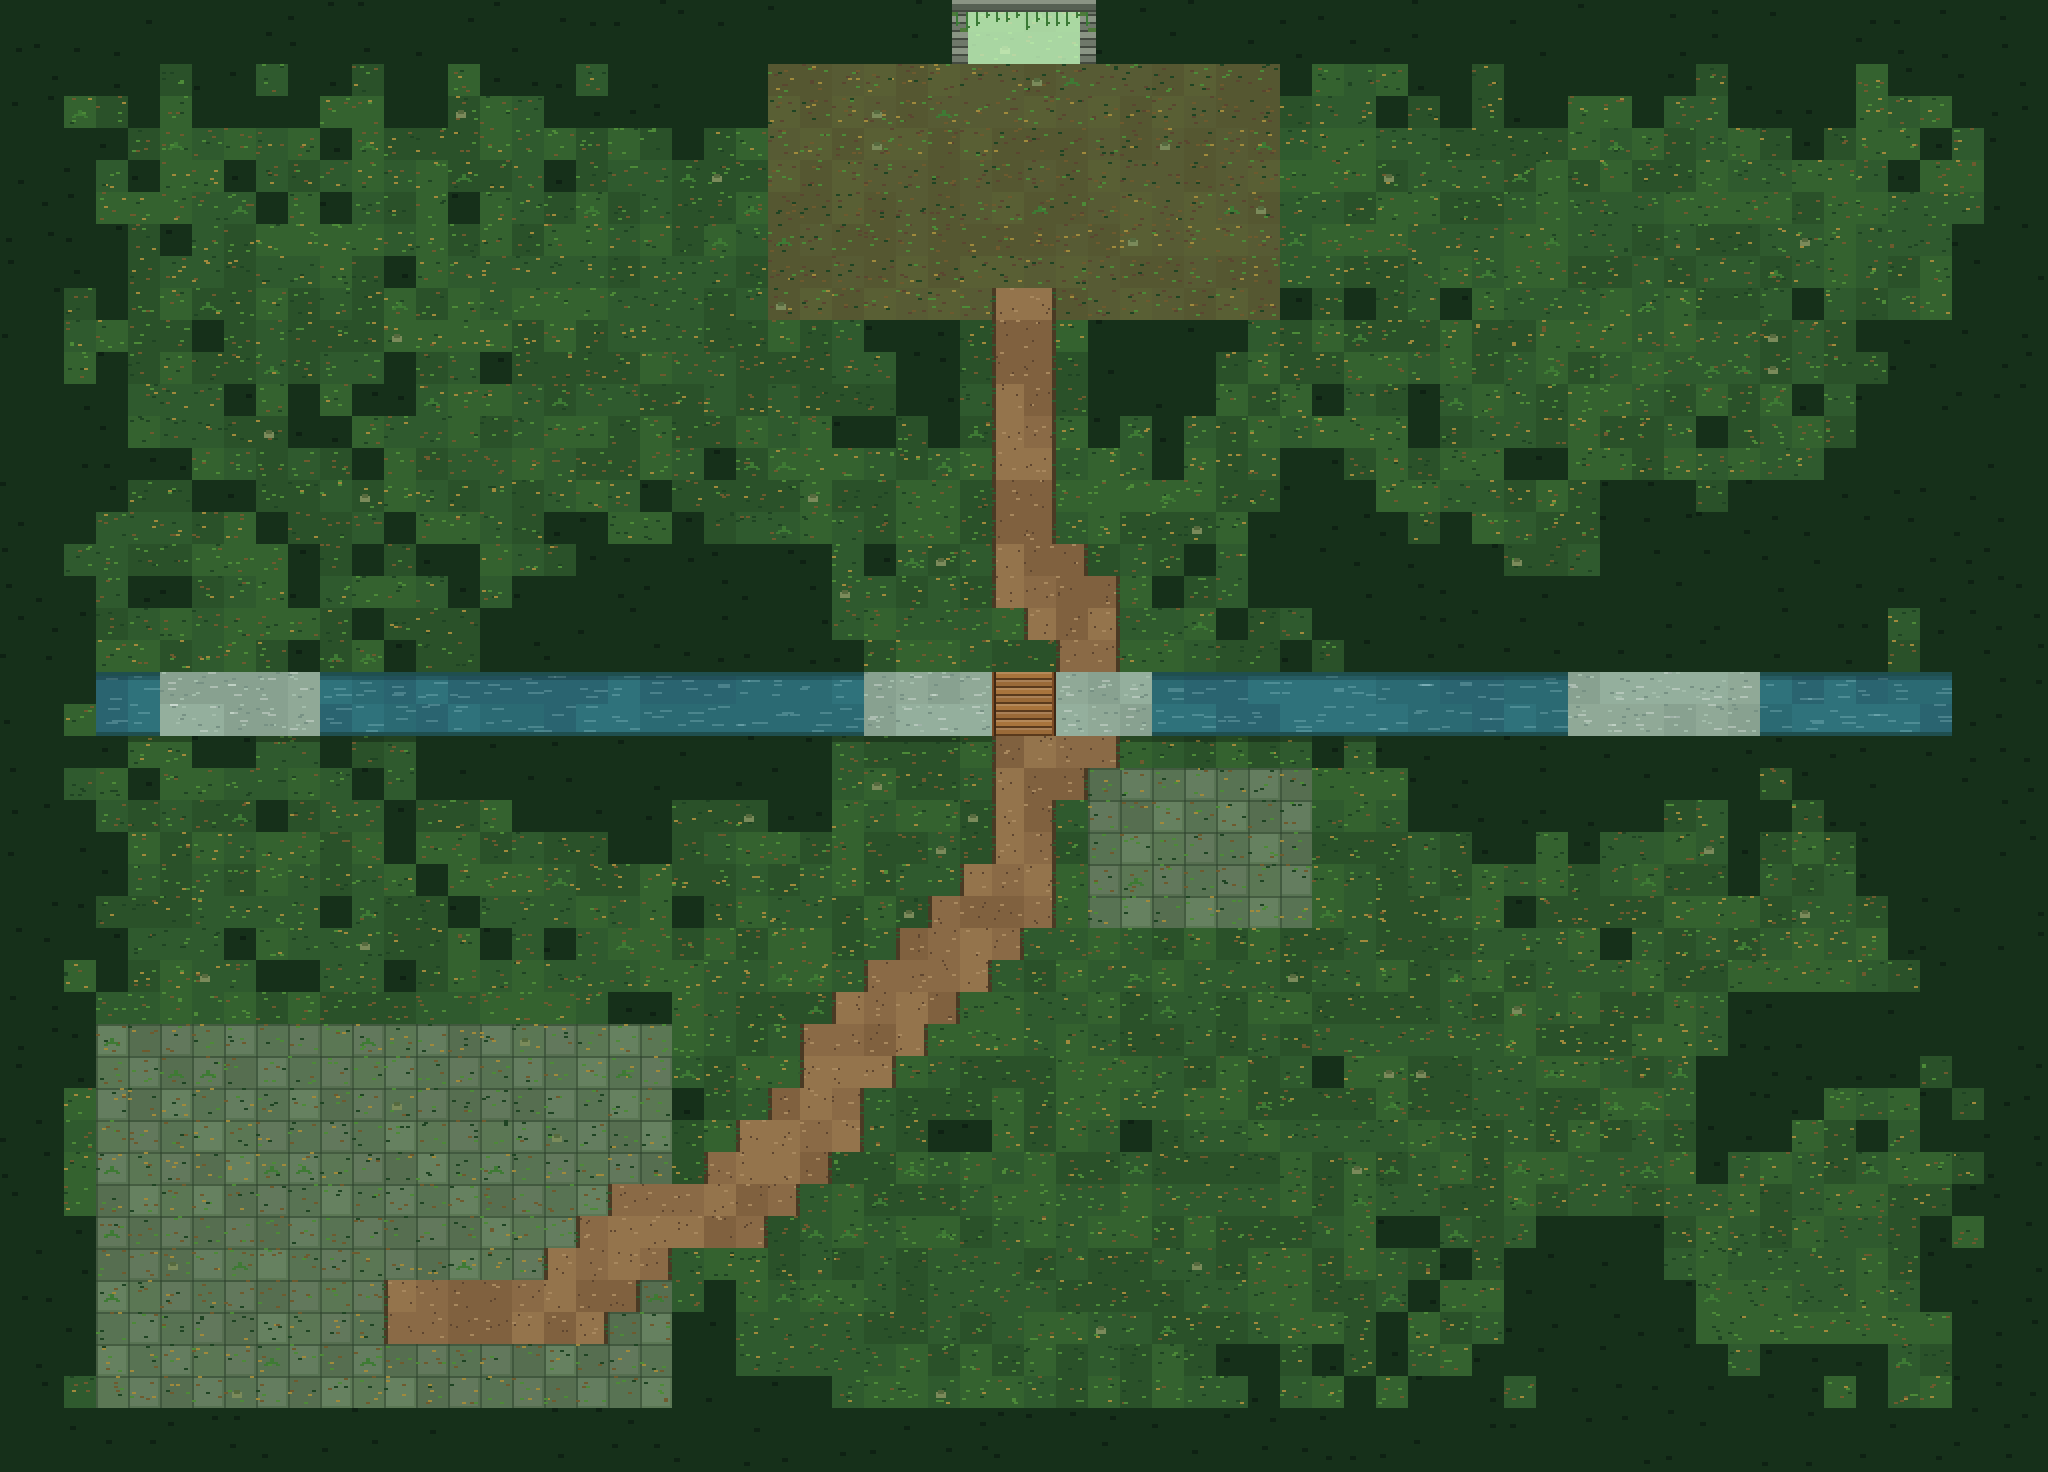
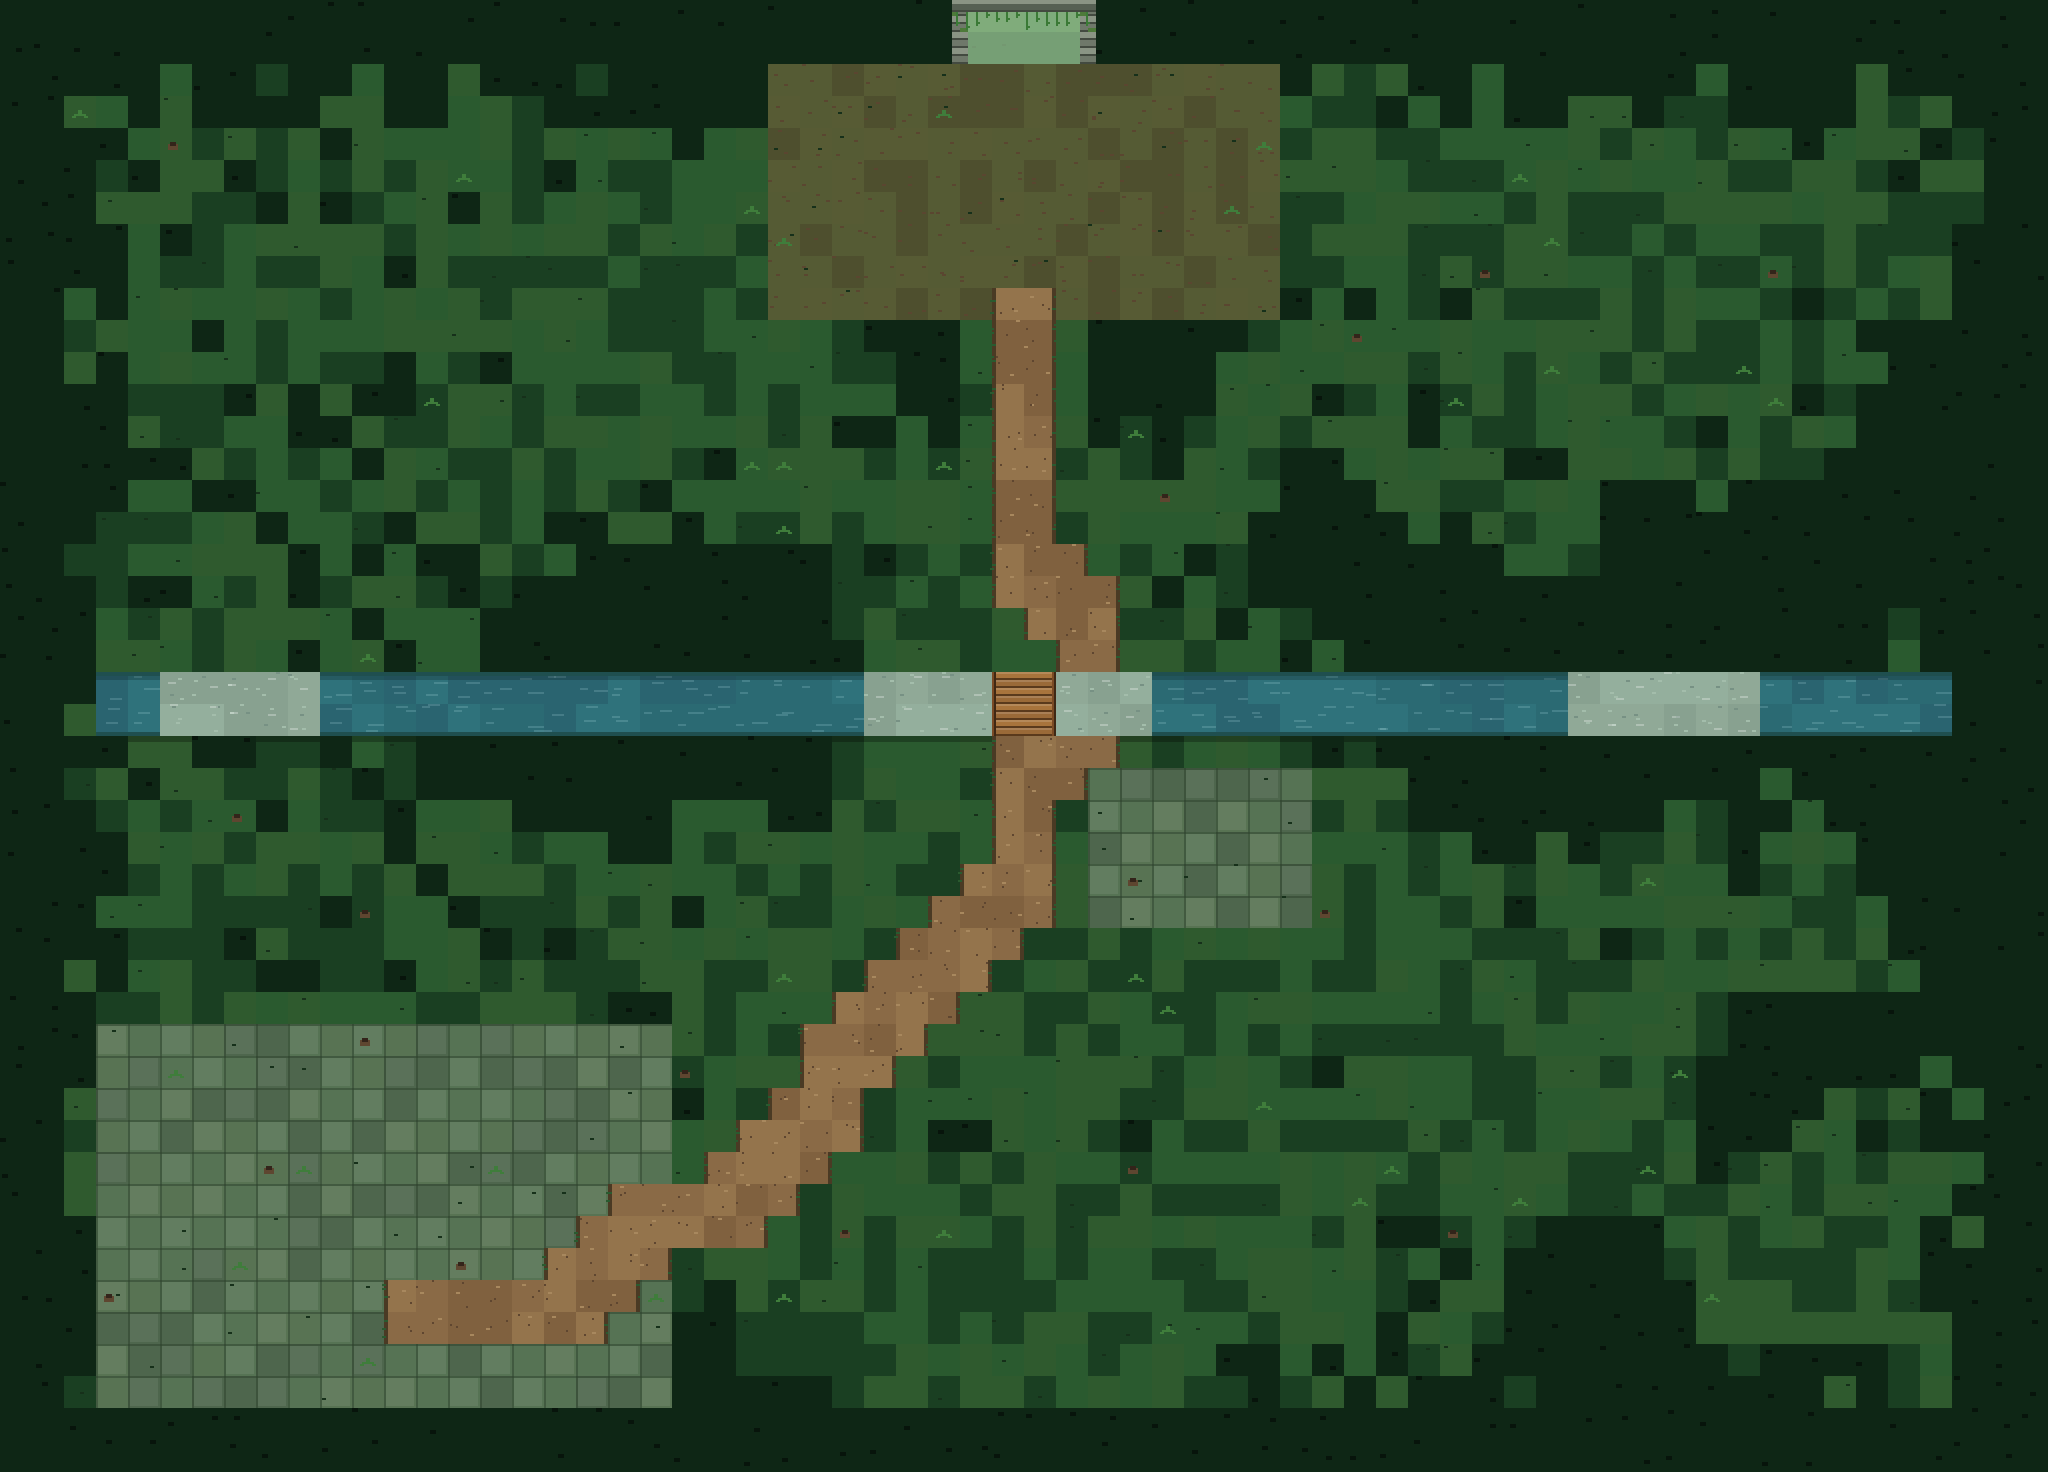
ป่าดงดิบ: พื้นคมขนาดจริงเข้าโทนต้นไม้ ลดจุดรก ไม่ยืดภาพเบลอ

diff --git a/public/pixeljungle.js b/public/pixeljungle.js
@@ -6,7 +6,7 @@ const PixelJungle = (() => {
   const mk = (w, h) => { const c = document.createElement('canvas'); c.width = w; c.height = h; const g = c.getContext('2d'); g.imageSmoothingEnabled = false; return [c, g]; };
   const cache = new Map(), memo = (k, f) => { let v = cache.get(k); if (!v) { v = f(); cache.set(k, v); } return v; };
   const px = (g, col, x, y, w = 1, h = 1) => { g.fillStyle = col; g.fillRect(x * U, y * U, w * U, h * U); }; // วาดเป็นหน่วย 2 พิกเซล
-  // พื้นทั้งใบจาก pack (โทนเดียวกับเมือง ขอบมน น่ากลัวนิดๆ) — โหลดแล้ว base() ใช้ภาพแทนการวาดโค้ด
+  // พื้นทั้งใบจาก pack (ถ้ามี) — รับเฉพาะขนาดตรงแมพ W*TS × H*TS (เช่น 2048×1472) กันขยายเบลอ • ไม่มีต้นไม้ในภาพ
   let bgImg = null, bgReady = false;
   const bgWaiters = [];
   function loadBg() {
@@ -14,15 +14,17 @@ const PixelJungle = (() => {
     im.decoding = 'async';
     im.onload = () => { if (!im.naturalWidth) return; bgImg = im; bgReady = true; bgWaiters.splice(0).forEach(fn => fn()); };
     im.onerror = () => { bgReady = false; };
-    im.src = 'pack/jungle-bg.jpg?v=jbg6'; // พื้นอย่างเดียว ไม่มีต้นไม้/วัตถุ/จุดเศษใบไม้ — ต้นไม้ยังเป็นสไปรต์ทับ + ชนตามช่อง
+    im.src = 'pack/jungle-bg.png?v=jbg7';
   }
   function whenBgReady(fn) { if (bgReady) fn(); else bgWaiters.push(fn); }
   function packBase(W, H) {
     if (!bgReady || !bgImg) return null;
-    const [oc, g] = mk(W * TS, H * TS);
+    const tw = W * TS, th = H * TS;
+    if (bgImg.naturalWidth !== tw || bgImg.naturalHeight !== th) return null; // ขนาดไม่ตรง = วาดโค้ดแทน ไม่ยืดภาพ
+    const [oc, g] = mk(tw, th);
     g.imageSmoothingEnabled = false;
-    g.drawImage(bgImg, 0, 0, oc.width, oc.height);
-    oc.packBg = true; // พื้นจาก pack • ต้นไม้/วัตถุยังวาดสไปรต์ทับตามผัง (ชนตามช่อง)
+    g.drawImage(bgImg, 0, 0);
+    oc.packBg = true;
     return oc;
   }
   loadBg();
@@ -72,45 +74,42 @@ const PixelJungle = (() => {
     g.imageSmoothingEnabled = false; g.drawImage(spr, Math.round(tx * TS + TS / 2 - spr.width / 2), (ty + 1) * TS + 2 - spr.height);
   }
 
-  // ---------- พื้น ----------
-  const FLOOR = ['#2f5a2e', '#2a5129', '#34622f'], FDARK = '#16301a', DIRT = ['#8a6a46', '#80613f', '#94744c'], WATER = ['#2b6a73', '#2a6470', '#2f727b'], SHALLOW = ['#a89a74', '#9a8c68', '#b0a47e'];
-  function base(rows, W, H, J) {
-    const packed = packBase(W, H); if (packed) return packed;
+  // ---------- พื้น (โทนเดียวกับสไปรต์ต้นไม้ CANOPY — เขียวเข้มใต้พุ่ม ไม่จุดเศษใบไม้รก) ----------
+  const FLOOR = ['#1a3f22', '#2a5a2f', '#2f5a2e'], FDARK = '#0e2615', DIRT = ['#8a6a46', '#80613f', '#94744c'], WATER = ['#2b6a73', '#2a6470', '#2f727b'], SHALLOW = ['#a89a74', '#9a8c68', '#b0a47e'];
+  function paintBase(rows, W, H, J) { // วาดพื้นโค้ดอย่างเดียว (ใช้ทั้งเกมและตอนสร้าง pack คมที่ขนาดจริง)
     const [oc, g] = mk(W * TS, H * TS), at = (x, y) => (rows[y] && rows[y][x]) || '#', isW = ch => ch === '~' || ch === 'H', isTr = ch => ch === '#' || ch === 't';
     const zoneOf = (x, y) => { for (const s of J.safe) if (x >= s.x0 && x <= s.x1 && y >= s.y0 && y <= s.y1) return s.id; return ''; };
     for (let ty = 0; ty < H; ty++) for (let tx = 0; tx < W; tx++) {
       const ch = at(tx, ty), X = tx * TS, Y = ty * TS, h1 = hash(tx, ty, 1);
       if (ch === '~' || ch === 'H') { // ลำธาร
         g.fillStyle = WATER[(h1 * 3) | 0]; g.fillRect(X, Y, TS, TS);
-        for (let i = 0; i < 3; i++) { const a = hash(tx * 3 + i, ty, 2), b = hash(tx, ty * 3 + i, 3); g.fillStyle = 'rgba(190,235,240,.22)'; g.fillRect(X + ((a * 12) | 0) * 2, Y + ((b * 14) | 0) * 2, 8 + ((a * 3) | 0) * 4, 2); }
+        for (let i = 0; i < 2; i++) { const a = hash(tx * 3 + i, ty, 2), b = hash(tx, ty * 3 + i, 3); g.fillStyle = 'rgba(190,235,240,.18)'; g.fillRect(X + ((a * 12) | 0) * 2, Y + ((b * 14) | 0) * 2, 8 + ((a * 3) | 0) * 4, 2); }
         if (!isW(at(tx, ty - 1))) { g.fillStyle = '#1f4f4f'; g.fillRect(X, Y, TS, 4); g.fillStyle = 'rgba(0,0,0,.2)'; g.fillRect(X, Y + 4, TS, 4); } // ตลิ่งเงาริมน้ำ
         if (!isW(at(tx, ty + 1))) { g.fillStyle = '#1f4f4f'; g.fillRect(X, Y + TS - 4, TS, 4); }
       } else if (ch === 'F') { // ที่ข้ามตื้น: เห็นพื้นกรวด น้ำใสบางๆ ทับ
         g.fillStyle = SHALLOW[(h1 * 3) | 0]; g.fillRect(X, Y, TS, TS);
-        for (let i = 0; i < 6; i++) { const a = hash(tx * 5 + i, ty, 4), b = hash(tx, ty * 5 + i, 5); g.fillStyle = i & 1 ? '#7d7152' : '#c9bd96'; g.fillRect(X + ((a * 14) | 0) * 2, Y + ((b * 14) | 0) * 2, 4, 2); }
+        for (let i = 0; i < 3; i++) { const a = hash(tx * 5 + i, ty, 4), b = hash(tx, ty * 5 + i, 5); g.fillStyle = i & 1 ? '#7d7152' : '#c9bd96'; g.fillRect(X + ((a * 14) | 0) * 2, Y + ((b * 14) | 0) * 2, 4, 2); }
         g.fillStyle = 'rgba(110,190,200,.42)'; g.fillRect(X, Y, TS, TS);
-        for (let i = 0; i < 2; i++) { const a = hash(tx * 3 + i, ty, 6), b = hash(tx, ty * 3 + i, 7); g.fillStyle = 'rgba(255,255,255,.3)'; g.fillRect(X + ((a * 10) | 0) * 2, Y + ((b * 14) | 0) * 2, 8, 2); }
+        for (let i = 0; i < 1; i++) { const a = hash(tx * 3 + i, ty, 6), b = hash(tx, ty * 3 + i, 7); g.fillStyle = 'rgba(255,255,255,.28)'; g.fillRect(X + ((a * 10) | 0) * 2, Y + ((b * 14) | 0) * 2, 8, 2); }
         if (at(tx, ty - 1) === '~') { g.fillStyle = 'rgba(30,90,100,.35)'; g.fillRect(X, Y, TS, 6); } if (at(tx, ty + 1) === '~') { g.fillStyle = 'rgba(30,90,100,.35)'; g.fillRect(X, Y + TS - 6, TS, 6); }
       } else if (ch === '=') { // ทางดิน
         g.fillStyle = DIRT[(h1 * 3) | 0]; g.fillRect(X, Y, TS, TS);
-        for (let i = 0; i < 5; i++) { const a = hash(tx * 5 + i, ty, 8), b = hash(tx, ty * 5 + i, 9); g.fillStyle = i & 1 ? '#a8885e' : '#5f4630'; g.fillRect(X + ((a * 14) | 0) * 2, Y + ((b * 14) | 0) * 2, 2 + (i & 1) * 2, 2); }
-        if (at(tx - 1, ty) !== '=' && at(tx - 1, ty) !== 'H') { g.fillStyle = '#4a3a24'; g.fillRect(X, Y, 4, TS); g.fillStyle = '#2f5a2e'; for (let i = 0; i < 4; i++) g.fillRect(X - 2 + (i & 1) * 2, Y + 4 + ((hash(tx, ty + i, 10) * 6) | 0) * 4, 4, 2); }
-        if (at(tx + 1, ty) !== '=' && at(tx + 1, ty) !== 'H') { g.fillStyle = '#4a3a24'; g.fillRect(X + TS - 4, Y, 4, TS); g.fillStyle = '#2f5a2e'; for (let i = 0; i < 4; i++) g.fillRect(X + TS - 2 - (i & 1) * 2, Y + 4 + ((hash(tx, ty + i, 11) * 6) | 0) * 4, 4, 2); }
+        for (let i = 0; i < 3; i++) { const a = hash(tx * 5 + i, ty, 8), b = hash(tx, ty * 5 + i, 9); g.fillStyle = i & 1 ? '#a8885e' : '#5f4630'; g.fillRect(X + ((a * 14) | 0) * 2, Y + ((b * 14) | 0) * 2, 2 + (i & 1) * 2, 2); }
+        if (at(tx - 1, ty) !== '=' && at(tx - 1, ty) !== 'H') { g.fillStyle = '#4a3a24'; g.fillRect(X, Y, 4, TS); g.fillStyle = '#2a5a2f'; for (let i = 0; i < 3; i++) g.fillRect(X - 2 + (i & 1) * 2, Y + 4 + ((hash(tx, ty + i, 10) * 6) | 0) * 4, 4, 2); }
+        if (at(tx + 1, ty) !== '=' && at(tx + 1, ty) !== 'H') { g.fillStyle = '#4a3a24'; g.fillRect(X + TS - 4, Y, 4, TS); g.fillStyle = '#2a5a2f'; for (let i = 0; i < 3; i++) g.fillRect(X + TS - 2 - (i & 1) * 2, Y + 4 + ((hash(tx, ty + i, 11) * 6) | 0) * 4, 4, 2); }
       } else {
         const zone = ch === 'E' ? '' : zoneOf(tx, ty), tr = isTr(ch);
         g.fillStyle = tr ? FDARK : FLOOR[(h1 * 3) | 0]; g.fillRect(X, Y, TS, TS);
-        if (zone === 'camp') { g.fillStyle = 'rgba(120,92,56,.55)'; g.fillRect(X, Y, TS, TS); for (let i = 0; i < 3; i++) { g.fillStyle = '#5a4630'; g.fillRect(X + ((hash(tx * 3 + i, ty, 12) * 14) | 0) * 2, Y + ((hash(tx, ty * 3 + i, 13) * 14) | 0) * 2, 4, 2); } } // ลานค่าย = ดินอัดแน่น
+        if (zone === 'camp') { g.fillStyle = 'rgba(120,92,56,.55)'; g.fillRect(X, Y, TS, TS); for (let i = 0; i < 2; i++) { g.fillStyle = '#5a4630'; g.fillRect(X + ((hash(tx * 3 + i, ty, 12) * 14) | 0) * 2, Y + ((hash(tx, ty * 3 + i, 13) * 14) | 0) * 2, 4, 2); } } // ลานค่าย = ดินอัดแน่น
         else if (zone === 'shrine' || zone === 'tower') { g.fillStyle = 'rgba(130,140,120,.5)'; g.fillRect(X, Y, TS, TS); g.fillStyle = 'rgba(40,60,40,.45)'; g.fillRect(X, Y, TS, 2); g.fillRect(X, Y, 2, TS); if ((tx + ty) % 2) { g.fillStyle = 'rgba(255,255,255,.07)'; g.fillRect(X + 2, Y + 2, TS - 4, TS - 4); } } // ลานหิน (เขตปลอดภัย)
         if (!tr) {
-          for (let i = 0; i < 6; i++) { // เศษใบไม้
-            const a = hash(tx * 7 + i, ty, 14), b = hash(tx, ty * 7 + i, 15), k = hash(tx + i, ty * 2, 16); g.fillStyle = k < 0.3 ? '#6e5a2e' : k < 0.6 ? '#4d8a38' : k < 0.85 ? '#1f4423' : '#a08a3c';
-            g.fillRect(X + ((a * 14) | 0) * 2, Y + ((b * 14) | 0) * 2, 4, 2);
-          }
+          // จุดตกแต่งเบาๆ (ไม่เต็มช่อง) ให้พื้นไม่แข่งกับสไปรต์ต้นไม้
+          if (hash(tx, ty, 14) < 0.18) { const a = hash(tx, ty, 15), b = hash(tx, ty, 16); g.fillStyle = '#16301a'; g.fillRect(X + ((a * 12) | 0) * 2, Y + ((b * 12) | 0) * 2, 4, 2); }
           const d = hash(tx, ty, 21);
-          if (d < 0.07) { g.fillStyle = '#3e7a34'; g.fillRect(X + 10, Y + 18, 12, 2); g.fillRect(X + 8, Y + 20, 4, 2); g.fillRect(X + 20, Y + 20, 4, 2); g.fillRect(X + 14, Y + 14, 4, 4); } // เฟิร์นเล็ก
-          else if (d < 0.1) { g.fillStyle = '#7a8a5a'; g.fillRect(X + 8, Y + 16, 10, 6); g.fillStyle = '#566a3e'; g.fillRect(X + 10, Y + 14, 6, 4); } // ก้อนหินมีตะไคร่
+          if (d < 0.03) { g.fillStyle = '#3f7d3b'; g.fillRect(X + 10, Y + 18, 12, 2); g.fillRect(X + 8, Y + 20, 4, 2); g.fillRect(X + 20, Y + 20, 4, 2); g.fillRect(X + 14, Y + 14, 4, 4); } // เฟิร์นเล็กนานๆ ที
+          else if (d < 0.045) { g.fillStyle = '#5e4630'; g.fillRect(X + 8, Y + 16, 10, 6); g.fillStyle = '#33241a'; g.fillRect(X + 10, Y + 14, 6, 4); } // ก้อนหินโทนเปลือกต้น
           if (isW(at(tx, ty - 1)) || at(tx, ty - 1) === 'F') { g.fillStyle = 'rgba(0,0,0,.28)'; g.fillRect(X, Y, TS, 6); } // ริมตลิ่ง
-        } else if (hash(tx, ty, 22) > 0.5) { g.fillStyle = '#0e2113'; g.fillRect(X + ((hash(tx, ty, 23) * 12) | 0) * 2, Y + ((hash(tx, ty, 24) * 12) | 0) * 2, 6, 4); }
+        } else if (hash(tx, ty, 22) > 0.55) { g.fillStyle = '#07140b'; g.fillRect(X + ((hash(tx, ty, 23) * 12) | 0) * 2, Y + ((hash(tx, ty, 24) * 12) | 0) * 2, 6, 4); }
       }
       if (ch === 'H') { // สะพานไม้: ไม้พาดขวางทางเดิน ราวกั้นสองข้าง
         const L = at(tx - 1, ty) !== 'H', R = at(tx + 1, ty) !== 'H';
@@ -127,6 +126,10 @@ const PixelJungle = (() => {
     g.fillStyle = '#3b7a36'; for (let x = ex0 - 4; x < ex1 + 4; x += 10) { const l = 6 + ((hash(x, 5, 30) * 4) | 0) * 4; g.fillRect(x, ey0 + 12, 2, l); g.fillRect(x + 2, ey0 + 12 + l - 4, 2, 2); } // เถาวัลย์ห้อยจากคาน
     g.font = 'bold 11px "Sukhumvit Set","Thonburi","Noto Sans Thai",sans-serif'; g.textAlign = 'center'; g.textBaseline = 'middle'; g.lineWidth = 3; g.strokeStyle = 'rgba(10,30,15,.85)'; g.strokeText('ทางออก ▲', (ex0 + ex1) / 2, ey1 - 12); g.fillStyle = '#eaffd8'; g.fillText('ทางออก ▲', (ex0 + ex1) / 2, ey1 - 12);
     return oc;
+  }
+  function base(rows, W, H, J) {
+    const packed = packBase(W, H); if (packed) return packed;
+    return paintBase(rows, W, H, J);
   }
 
   // ---------- ของในค่าย / ศาลเจ้า / ซากวิหาร / สมุนไพร ----------
@@ -300,5 +303,5 @@ const PixelJungle = (() => {
       const sm = (tt * 0.5 + i * 0.33) % 1; g.fillStyle = `rgba(230,230,230,${0.28 * (1 - sm)})`; g.fillRect(Math.round(ix + Math.sin(tt * 1.4 + i + sm * 5) * 2), Math.round(top - 2 - sm * 14), 2, 2);
     }
   }
-  return { base, tree, takhian, tent, fire, sign, shrine, ruin, herb, gate, whenBgReady, bgReady: () => bgReady };
+  return { base, paintBase, tree, takhian, tent, fire, sign, shrine, ruin, herb, gate, whenBgReady, bgReady: () => bgReady };
 })();
